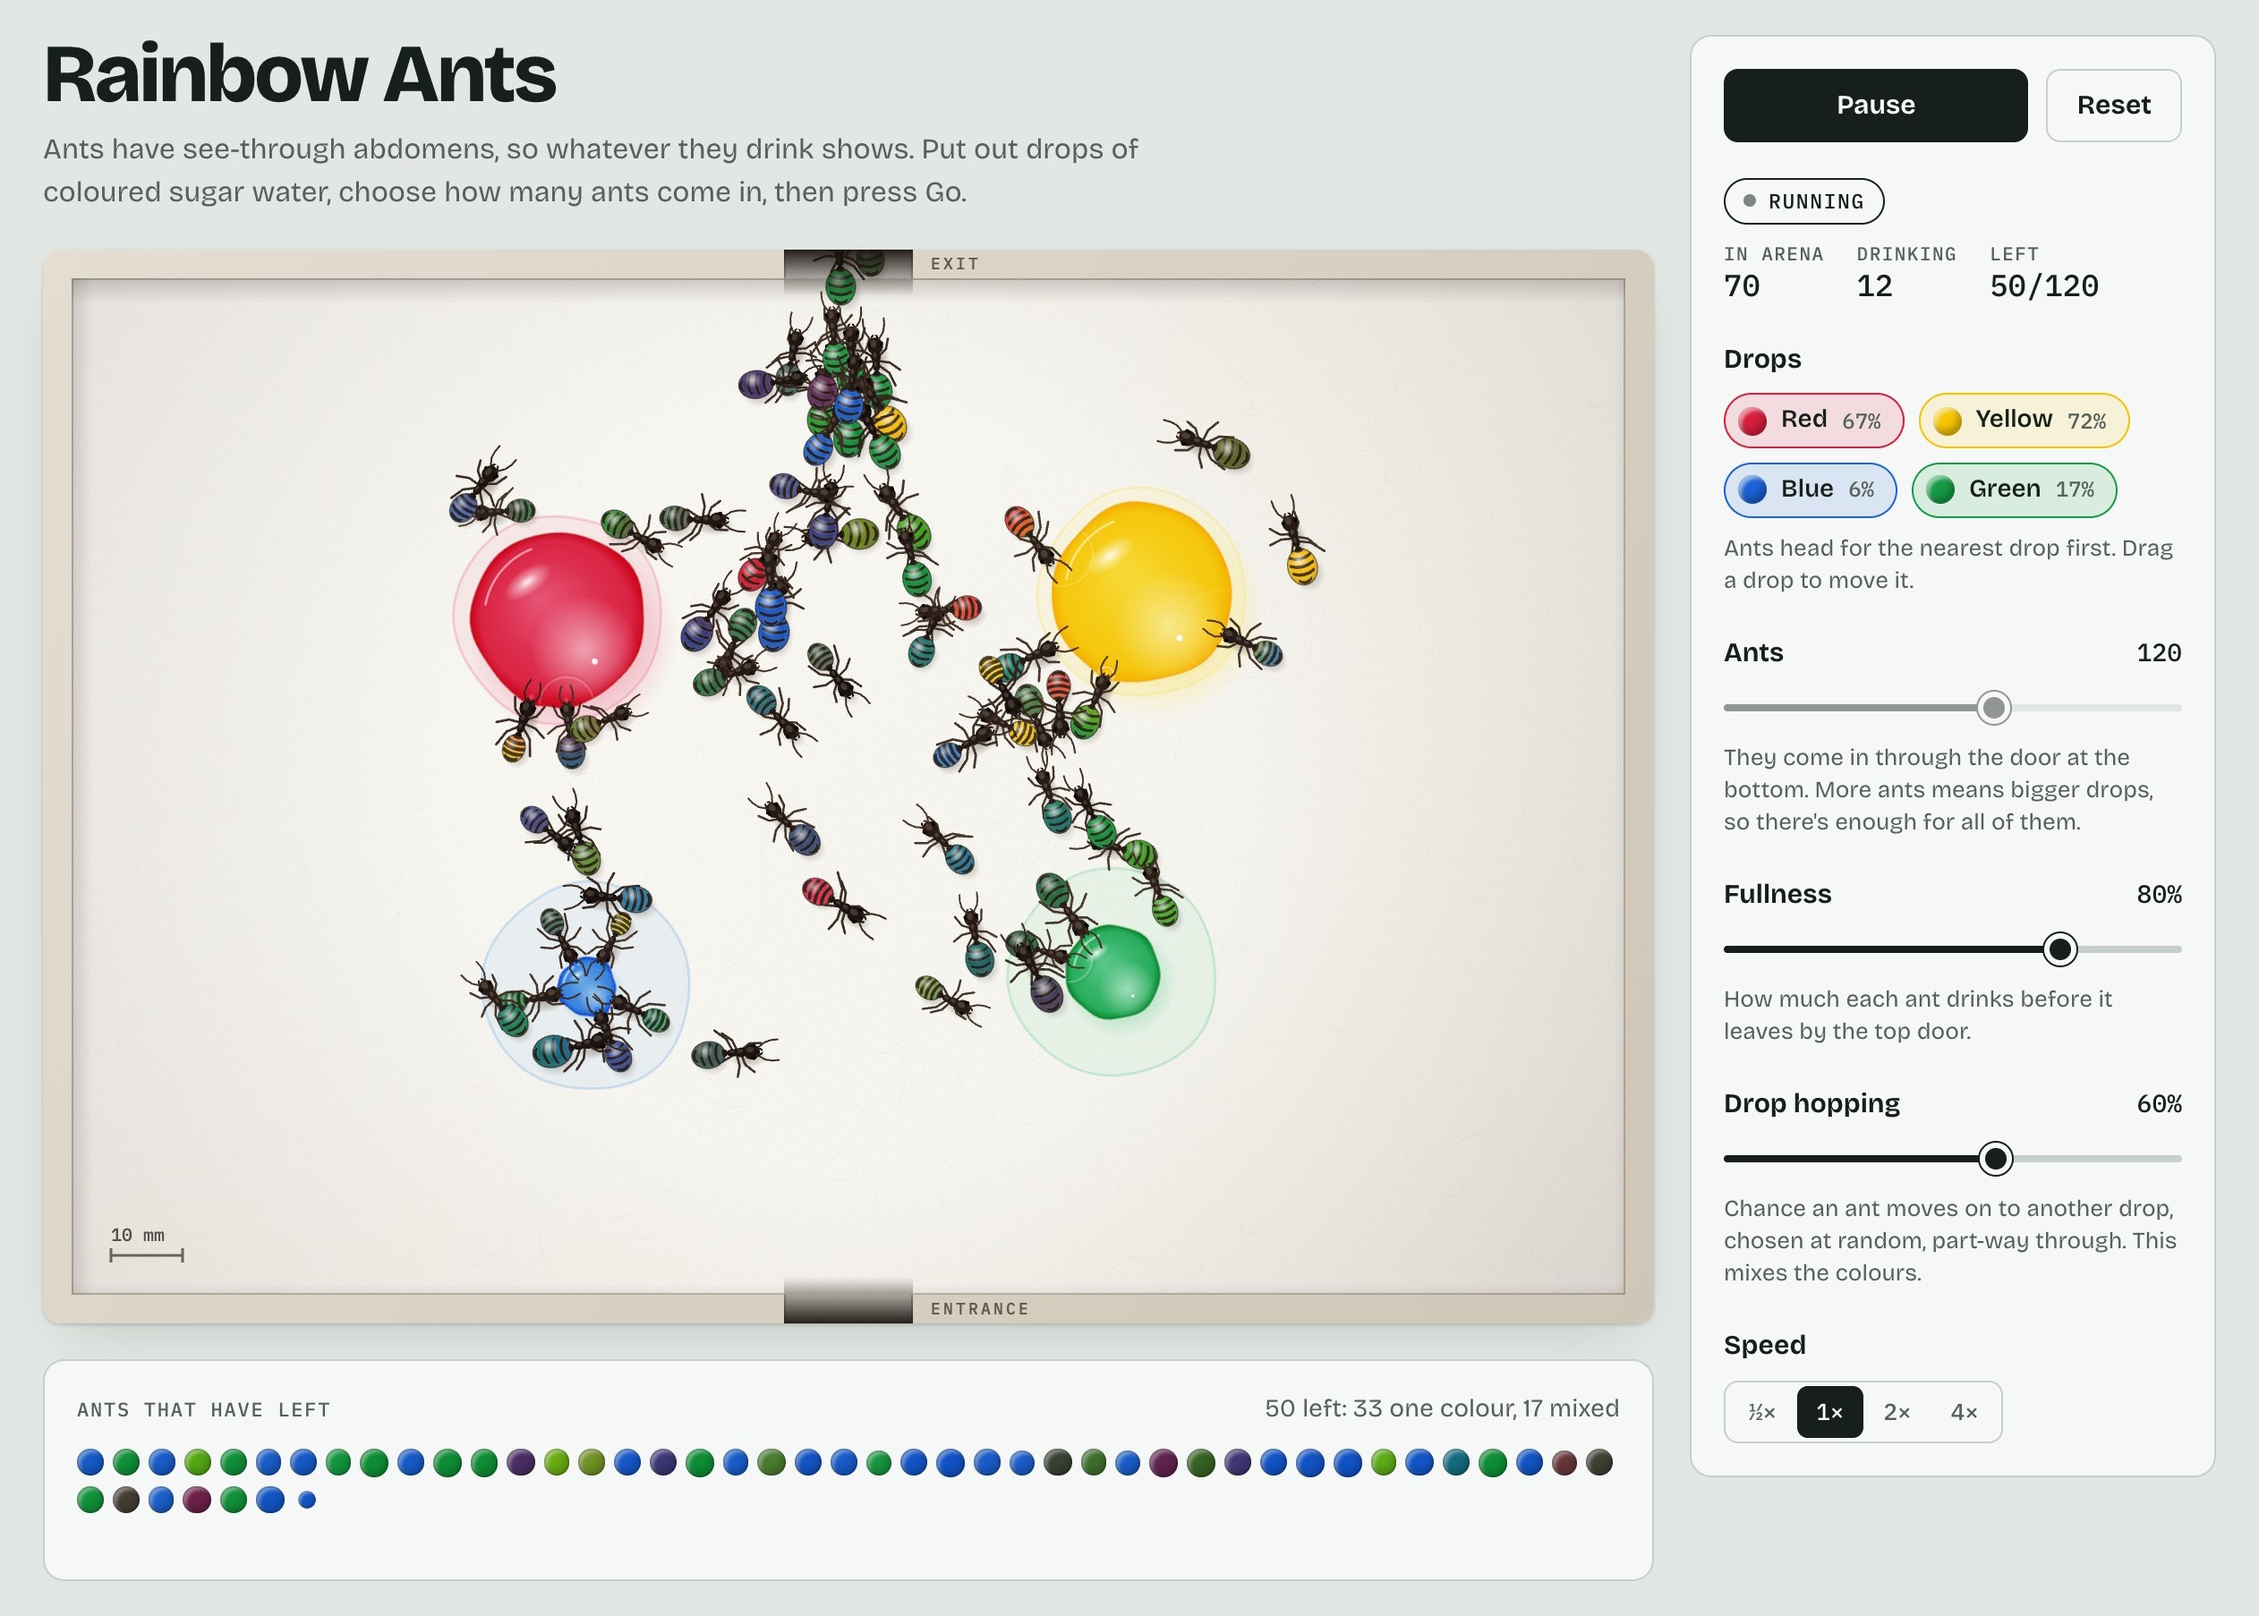
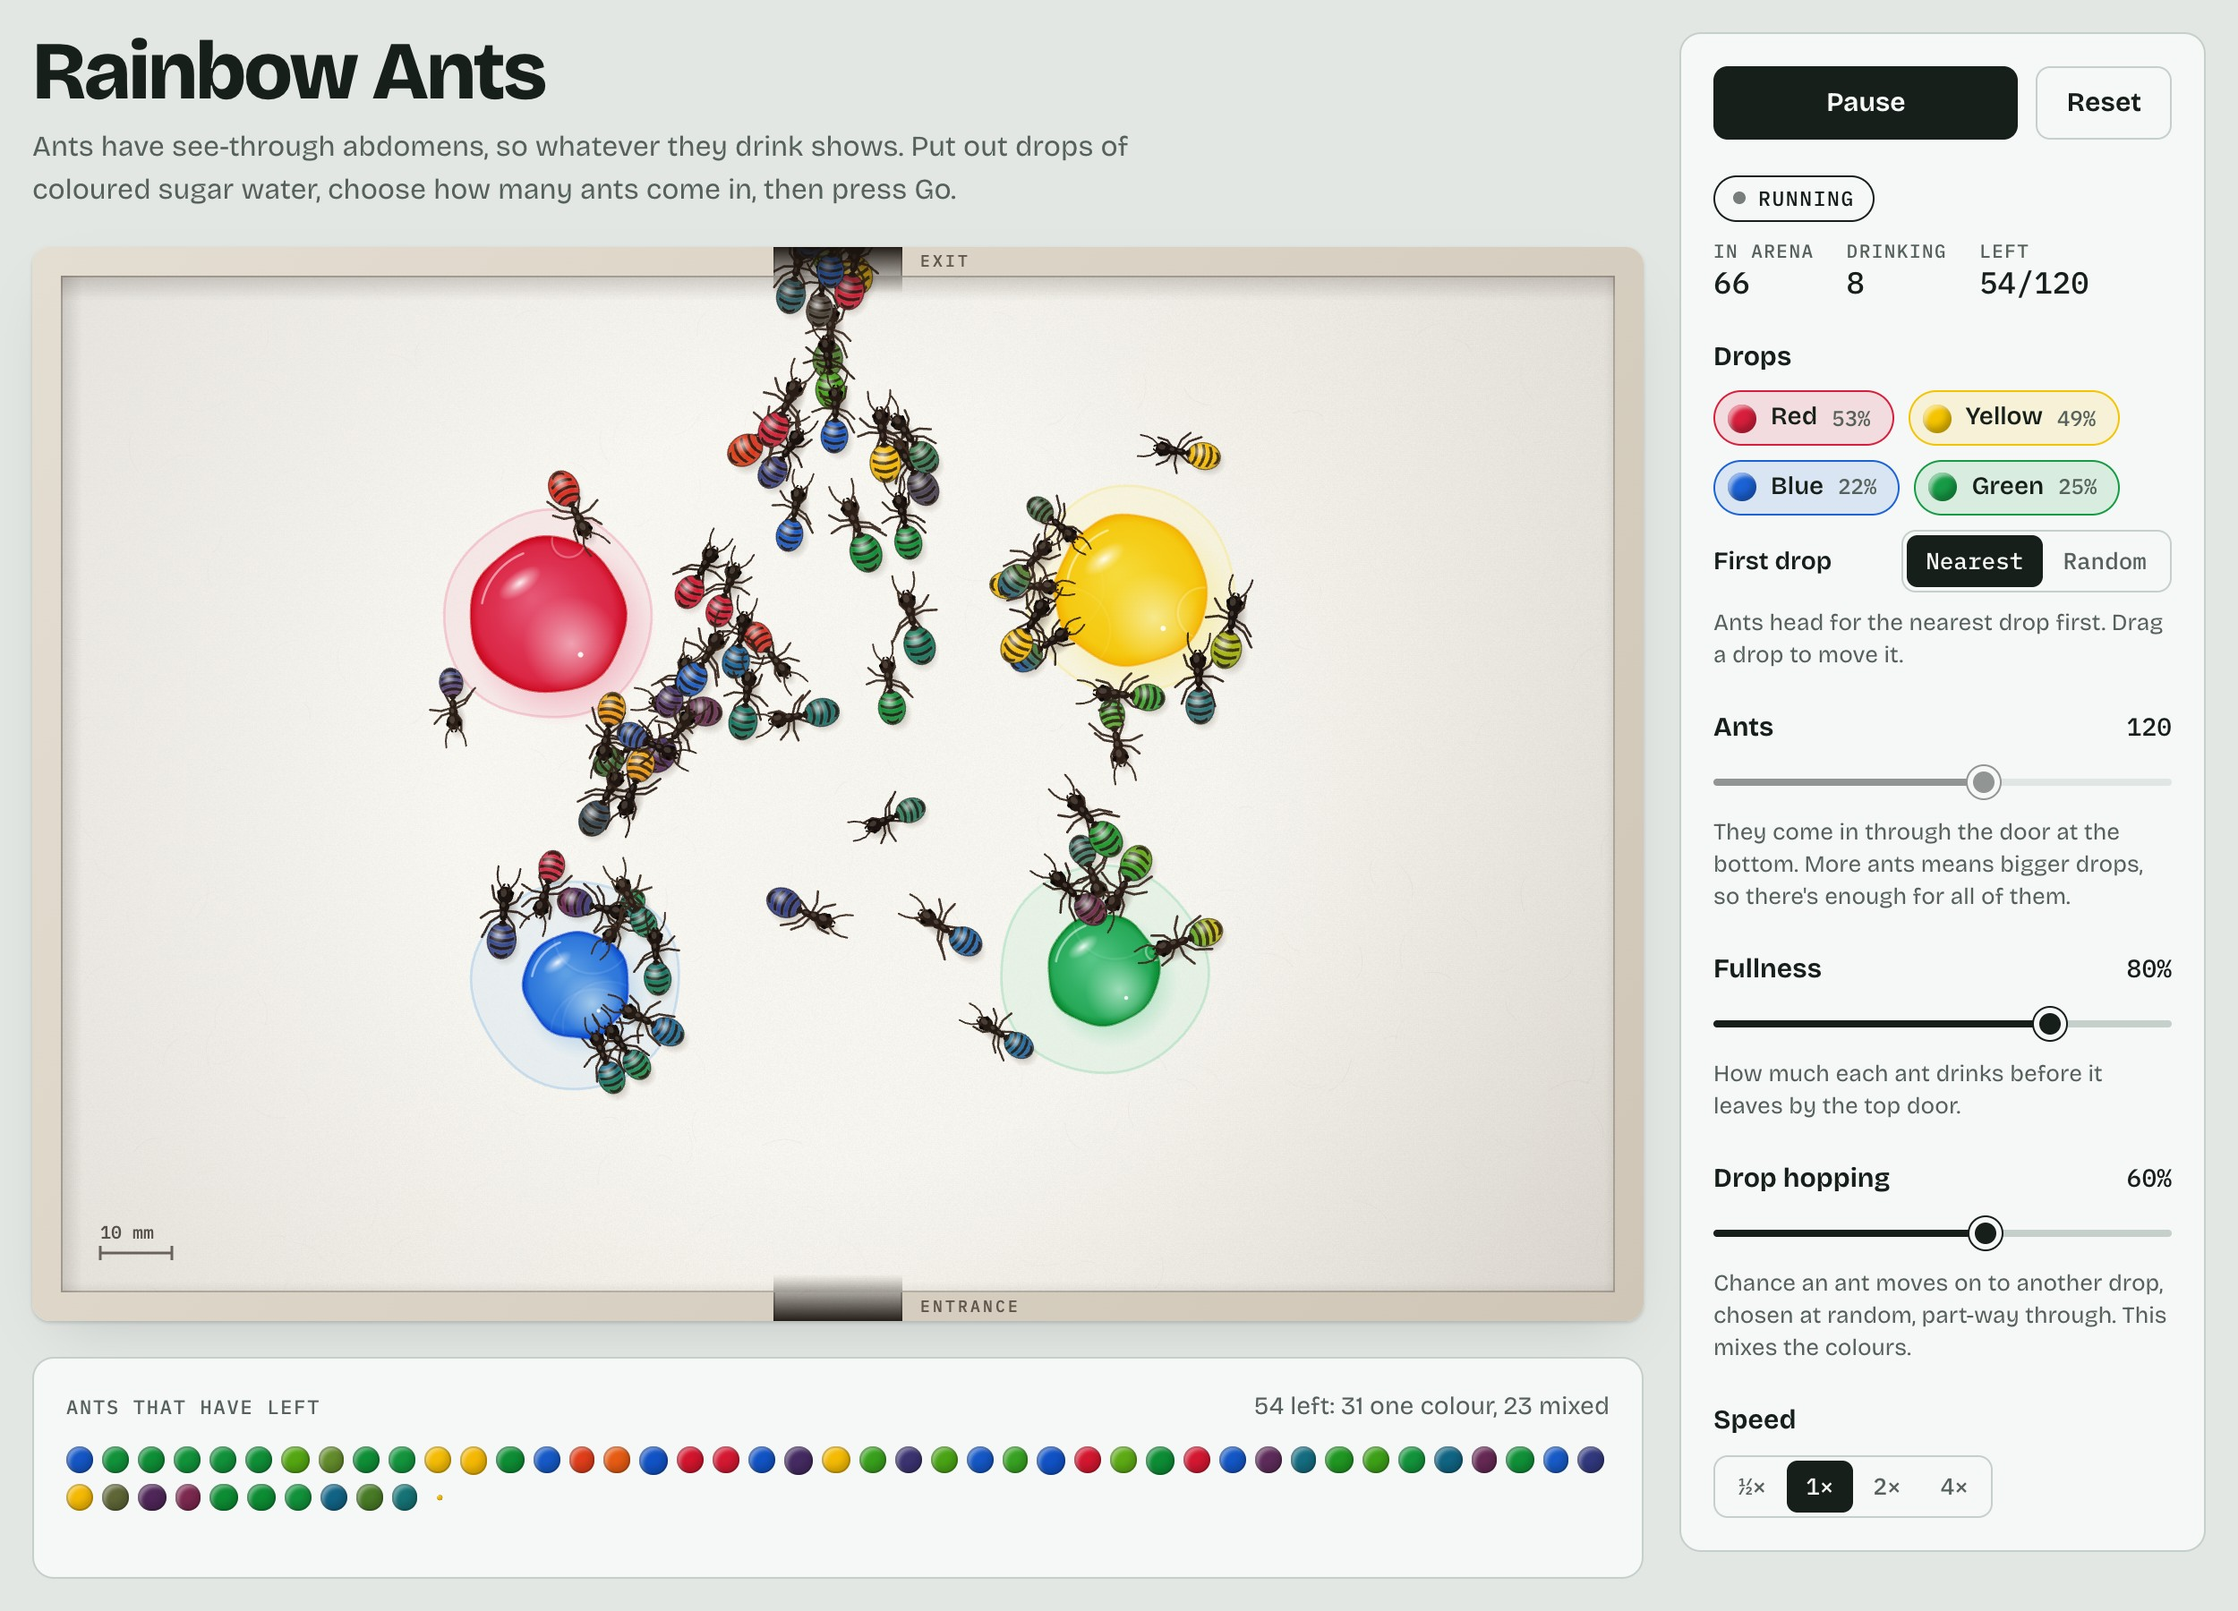
Update the README for the First drop switch
Retake the screenshot so it shows the new control, and describe the
switch and how ants handle a crowded drop.

diff --git a/README.md b/README.md
@@ -4,7 +4,7 @@ Ants have see-through abdomens, so whatever they drink shows. Rainbow Ants is a 
 
 **[Try it in your browser](https://superintelligentshadeofpink.github.io/ant-simulation/)**
 
-![Rainbow Ants mid-run with 120 ants and four drops. On the left, ants with red, yellow, blue, green and mixed-colour abdomens crowd round the drops, the two drops nearest the entrance have shrunk to a fraction of their size, and a tally underneath shows the 50 ants that have left in the colours they ended up. The controls are on the right.](docs/screenshot.jpg)
+![Rainbow Ants mid-run with 120 ants and four drops. On the left, ants with red, yellow, blue, green and mixed-colour abdomens drink at the drops, which have gone down by different amounts, and a tally underneath shows the ants that have left in the colours they ended up. The controls, including the First drop switch, are on the right.](docs/screenshot.jpg)
 
 ## Running it
 
@@ -21,6 +21,7 @@ python3 -m http.server 8765
 | Control | What it does |
 | --- | --- |
 | **Drops** | Red, yellow, blue and green, with red only by default. Drag a drop to move it before a run. |
+| **First drop** | Where each ant goes when it comes in: the nearest drop (the default) or one at random. |
 | **Ants** | 1 to 200, default 25. They come in through the door at the bottom. Drops get bigger as you add ants, so there's enough for all of them. |
 | **Fullness** | How much each ant drinks before it leaves through the door at the top. |
 | **Drop hopping** | The chance an ant moves on to another drop part-way through, which mixes the colours. |
@@ -30,7 +31,7 @@ Press **Go** (or Space) to start, pause and resume. Each ant that leaves is adde
 
 ## How it works
 
-- **Ants** head for the nearest drop first. An ant that moves on part-way through picks another drop at random. When a drop is crowded, ants wait their turn and circle it looking for a gap.
+- **Ants** head for the nearest drop when they come in, or a random one if First drop is set to Random. An ant that moves on part-way through picks another drop at random. If an ant finds no room on its side of a drop, gets crowded out or sees its drop run dry, it goes to the nearest drop with room, or waits nearby for a gap.
 - **Abdomens** swell as the ants drink. The hard plates on an ant's back don't stretch, so they spread apart and the coloured liquid shows between them.
 - **Colours** mix the way food dye does. Each dye's absorbance is worked out from its colour and combined using the Beer–Lambert law, so yellow and blue make green, red and blue make purple, and a fuller abdomen shows a deeper colour. Fresh liquid shows near the waist first and blends back towards the tip.
 - **Drops** shrink and get paler as they're drunk, leaving a stain where they started. Between them they hold 20% more than all the ants can drink.
